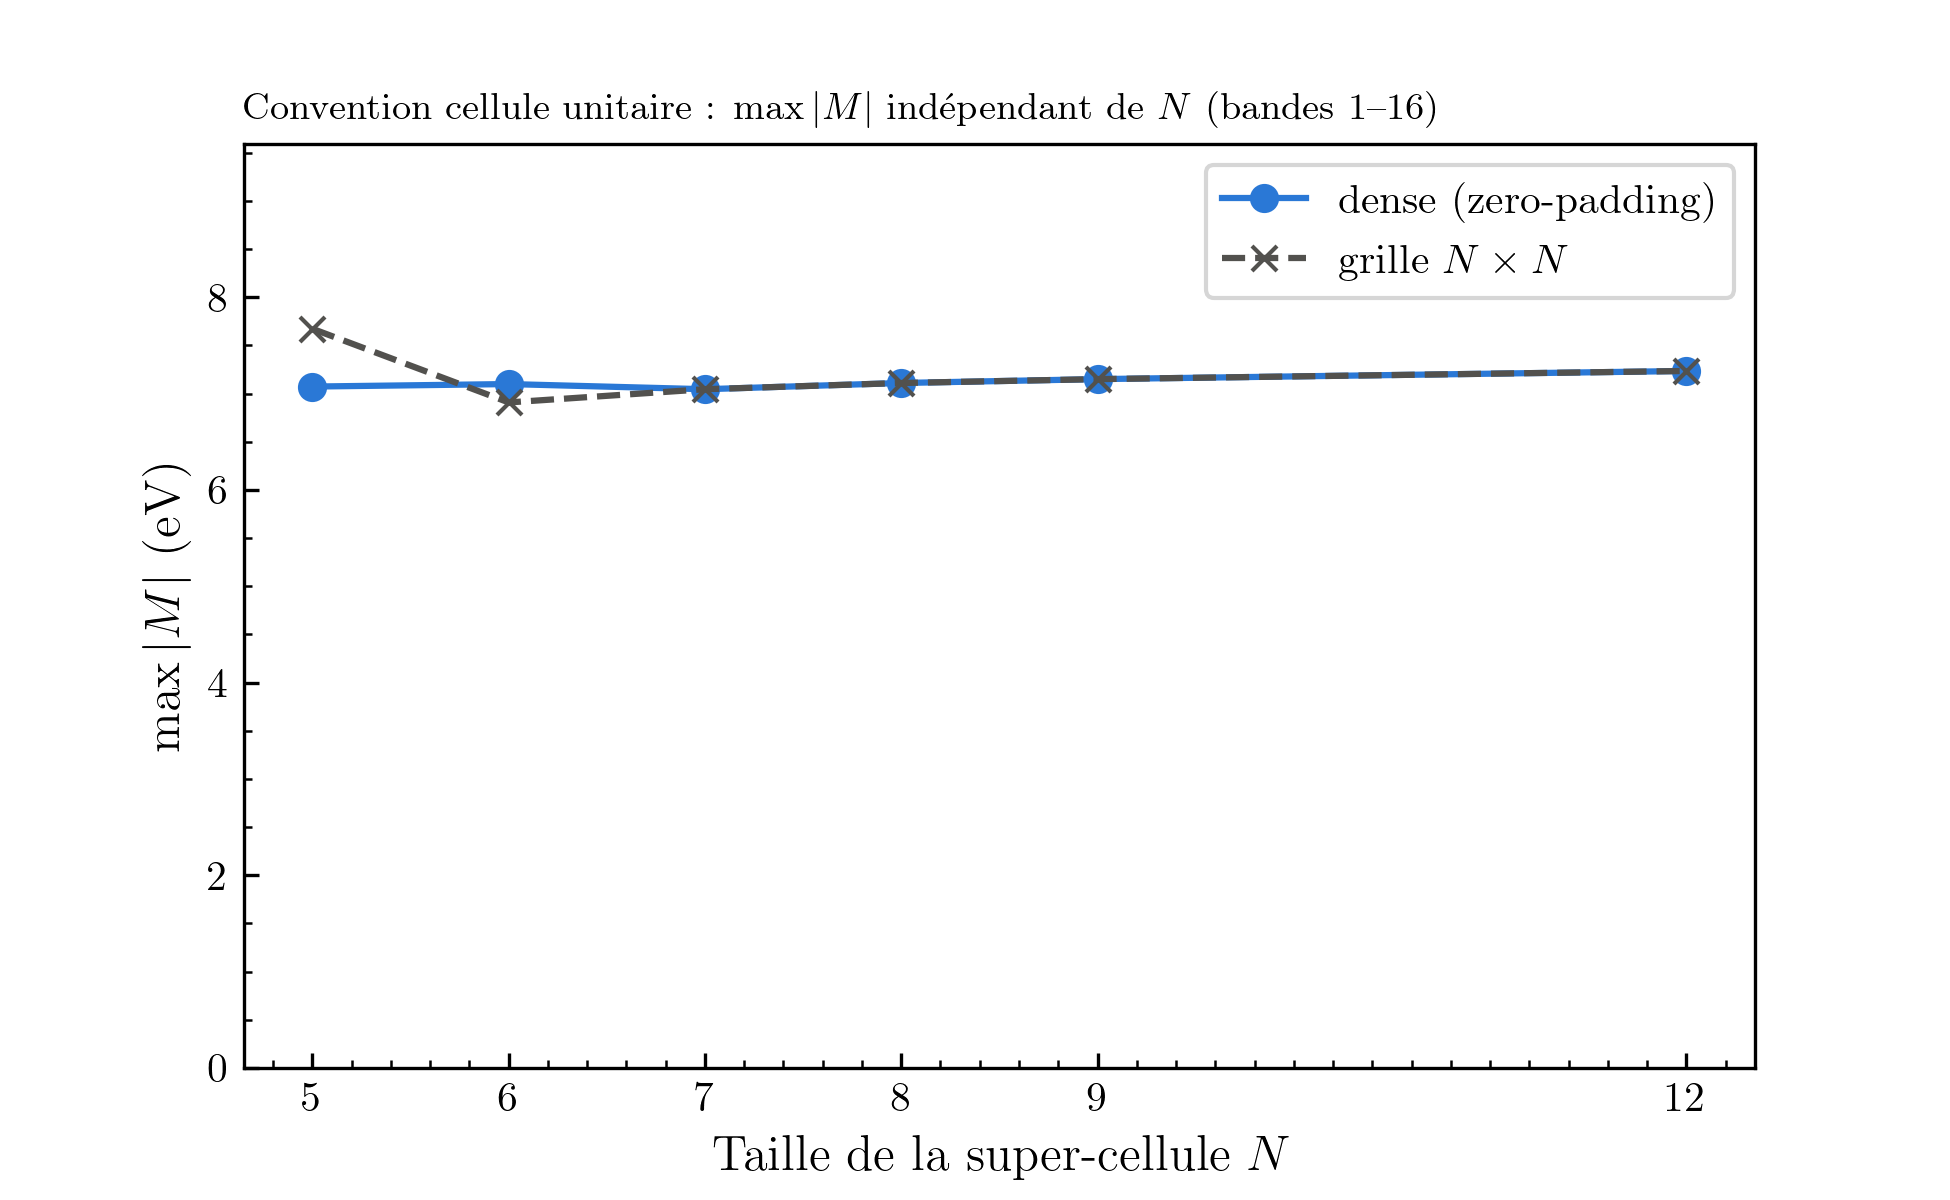
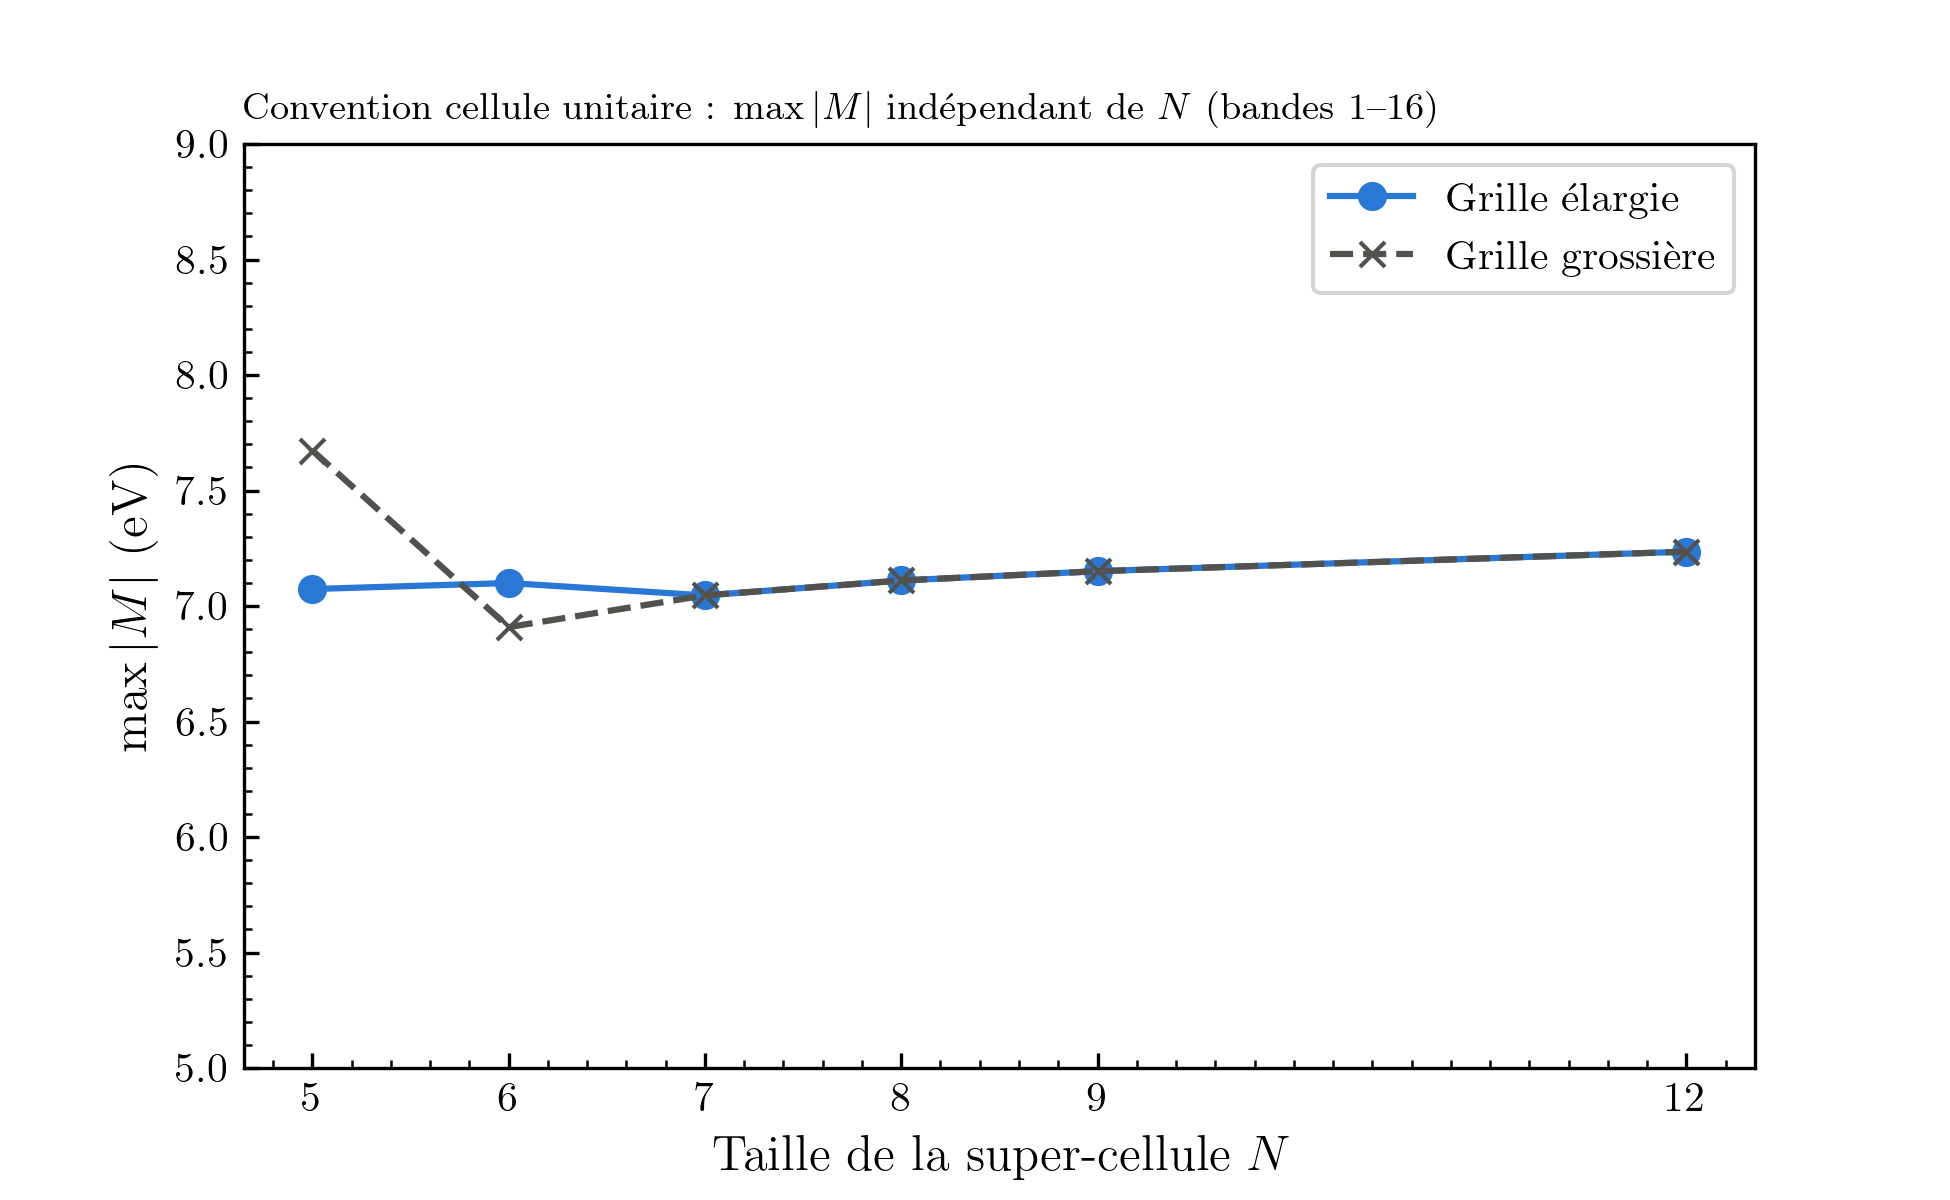
fig_M_scaling_final : légende « Grille élargie » / « Grille grossière », ordonnée limitée à 5–9 eV

diff --git a/scripts/make_figures_memoire.py b/scripts/make_figures_memoire.py
@@ -109,8 +109,8 @@ save(fig, "fig_M_map_final")
 # ---------------- 5. fig_M_scaling_final : panneau unique
 Ns = [int(S.split("x")[0]) for S in SIZES if f"scale_{S}_dense" in Zm]; dd = [float(Zm[f"scale_{S}_dense"]) for S in SIZES if f"scale_{S}_dense" in Zm]; cc_ = [float(Zm[f"scale_{S}_coarse"]) for S in SIZES if f"scale_{S}_dense" in Zm]
 fig, ax = plt.subplots()
-ax.plot(Ns, dd, "o-", color=C_T, label="dense (zero-padding)"); ax.plot(Ns, cc_, "x--", color=C_REF, label=r"grille $N\times N$")
-ax.set_ylabel(r"$\max|M|$ (eV)"); ax.set_ylim(0, max(dd + cc_) * 1.25); ax.set_xlabel(r"Taille de la super-cellule $N$"); ax.set_xticks(Ns); ax.legend()
+ax.plot(Ns, dd, "o-", color=C_T, label="Grille élargie"); ax.plot(Ns, cc_, "x--", color=C_REF, label="Grille grossière")
+ax.set_ylabel(r"$\max|M|$ (eV)"); ax.set_ylim(5, 9); ax.set_xlabel(r"Taille de la super-cellule $N$"); ax.set_xticks(Ns); ax.legend()
 ax.set_title(r"Convention cellule unitaire : $\max|M|$ indépendant de $N$ (bandes 1–16)", loc="left", fontsize=9); save(fig, "fig_M_scaling_final")
 
 # ---------------- 6. fig_Ved : (a) carte 5×5, (b) carte 9×9, (c) profil radial masqué
